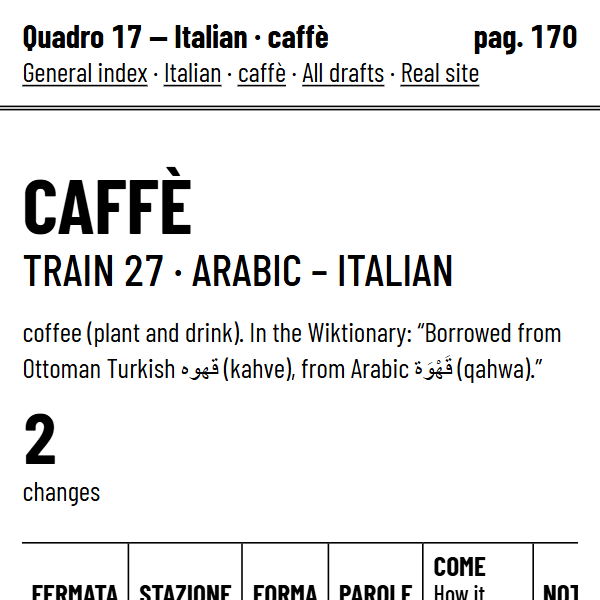
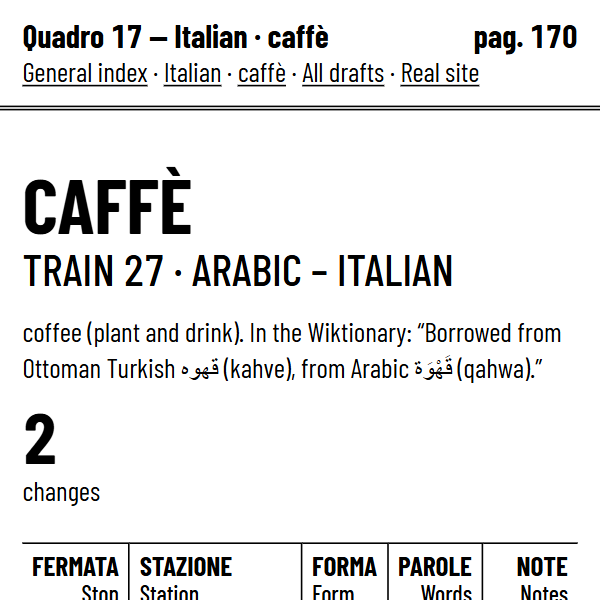
Drafts 4: index page with square photos, JOURNAL section; final pass against the list of prohibitions (no third face in the riso draft, timetable train fits the phone)

Changed region(s): [[0.03, 0.9, 0.99, 1.0]]

diff --git a/bozze4/index.html b/bozze4/index.html
@@ -1,0 +1,68 @@
+<!doctype html>
+<html lang="it">
+<head>
+<meta charset="utf-8">
+<meta name="viewport" content="width=device-width, initial-scale=1">
+<title>lexodus — bozze 4</title>
+<meta name="robots" content="noindex">
+<link rel="icon" href="data:,">
+<style>
+  /* indice delle bozze: Georgia di sistema, una colonna di testo e le foto, nessun colore oltre il blu dei link */
+  body { margin: 0; padding: 32px 16px 48px; background: #fff; color: #000; font: 17px/26px Georgia, "Times New Roman", serif; }
+  main { max-width: 1100px; }
+  h1 { font-size: 30px; line-height: 39px; font-weight: normal; margin: 0 0 13px; }
+  h2 { font-size: 20px; line-height: 26px; margin: 0 0 6px; }
+  p { margin: 0 0 13px; max-width: 42em; }
+  ol { list-style: none; margin: 39px 0 0; padding: 0; }
+  li { padding: 26px 0; border-top: 1px solid #000; }
+  .shots { display: grid; grid-template-columns: repeat(2, minmax(0, 300px)); gap: 8px; max-width: none; }
+  .shots img { display: block; width: 100%; height: auto; border: 1px solid #000; }
+  a, a:visited { color: #00e; }
+</style>
+</head>
+<body>
+<main>
+<h1>lexodus — bozze 4: sei tradizioni grafiche</h1>
+<p>Sei vesti prese da tradizioni grafiche reali, ognuna con le sue regole: home, pagina dell’italiano e scheda di caffè, con i dati veri; funzionano anche sul telefono. Per ognuna, la pagina dell’italiano e la scheda di caffè nelle foto quadrate. Il sito vero non cambia.</p>
+<ol>
+<li>
+<h2>1. Svizzera</h2>
+<p>Stile tipografico internazionale svizzero (Müller-Brockmann, Ruder, anni ’50–’60): griglia a 12 colonne, Helvetica/Arial, testo a bandiera, il nome enorme in basso a sinistra come in un manifesto, un solo rosso; le liste come gli orari delle ferrovie svizzere.</p>
+<p class="shots"><img src="../docs/screenshots/bozze4/svizzera-lingua.png" alt="1. Svizzera: Italiano come manifesto e orario" loading="lazy" width="600" height="600"><img src="../docs/screenshots/bozze4/svizzera-parola.png" alt="1. Svizzera: Caffè: percorso e coincidenze in tabella" loading="lazy" width="600" height="600"></p>
+<p><a href="svizzera/index.html">Home</a> · <a href="svizzera/language.html?code=it">Italiano</a> · <a href="svizzera/word.html?lang=it&amp;w=caff%C3%A8&amp;n=1&amp;from=ota">Caffè</a></p>
+</li>
+<li>
+<h2>2. Brutalista</h2>
+<p>Il primo web (craigslist, la pagina di Berkshire Hathaway, Hacker News): Times di sistema, solo il blu dei link, h1/h2, liste di definizioni, tabelle con bordi di 1 px, la tabella intera in numeri.</p>
+<p class="shots"><img src="../docs/screenshots/bozze4/brutalista-lingua.png" alt="2. Brutalista: Italiano: dl e tabelle" loading="lazy" width="600" height="600"><img src="../docs/screenshots/bozze4/brutalista-parola.png" alt="2. Brutalista: Caffè: albero come elenco annidato" loading="lazy" width="600" height="600"></p>
+<p><a href="brutalista/index.html">Home</a> · <a href="brutalista/language.html?code=it">Italiano</a> · <a href="brutalista/word.html?lang=it&amp;w=caff%C3%A8&amp;n=1&amp;from=ota">Caffè</a></p>
+</li>
+<li>
+<h2>3. Risografia</h2>
+<p>Fanzine stampata in risografia a due tamburi: blu per le parole, rosa fluo per le quantità, fuori registro di 3 px; retino SVG, titoli ritagliati e storti, elenchi battuti a macchina con i puntini, numeri di pagina scritti a mano.</p>
+<p class="shots"><img src="../docs/screenshots/bozze4/risografia-lingua.png" alt="3. Risografia: Doppia pagina dell'italiano" loading="lazy" width="600" height="600"><img src="../docs/screenshots/bozze4/risografia-parola.png" alt="3. Risografia: Caffè: ritagli e albero a macchina" loading="lazy" width="600" height="600"></p>
+<p><a href="risografia/index.html">Home</a> · <a href="risografia/language.html?code=it">Italiano</a> · <a href="risografia/word.html?lang=it&amp;w=caff%C3%A8&amp;n=1&amp;from=ota">Caffè</a></p>
+</li>
+<li>
+<h2>4. Isotype</h2>
+<p>Statistica per pittogrammi di Otto Neurath e Gerd Arntz (Vienna, anni ’20–’30): un segno (un foglio scritto) ripetuto al posto delle barre, il valore del segno dichiarato in legenda, gli inchiostri piatti delle tavole Isotype, Jost come Futura.</p>
+<p class="shots"><img src="../docs/screenshots/bozze4/isotype-lingua.png" alt="4. Isotype: Italiano: 1 segno = 50 parole" loading="lazy" width="600" height="600"><img src="../docs/screenshots/bozze4/isotype-parola.png" alt="4. Isotype: Caffè: luoghi, frecce e una parola per segno" loading="lazy" width="600" height="600"></p>
+<p><a href="isotype/index.html">Home</a> · <a href="isotype/language.html?code=it">Italiano</a> · <a href="isotype/word.html?lang=it&amp;w=caff%C3%A8&amp;n=1&amp;from=ota">Caffè</a></p>
+</li>
+<li>
+<h2>5. Orario</h2>
+<p>L'Orario generale delle Ferrovie italiane e i manifesti di stazione: quadri numerati, tabelle fitte in condensato, arrivi su bianco e partenze sul giallo dei manifesti, numeri di treno al posto dei numeri di parole, note con i segni e la legenda.</p>
+<p class="shots"><img src="../docs/screenshots/bozze4/orario-lingua.png" alt="5. Orario: Quadro 17: arrivi e partenze" loading="lazy" width="600" height="600"><img src="../docs/screenshots/bozze4/orario-parola.png" alt="5. Orario: Caffè come treno con le coincidenze" loading="lazy" width="600" height="600"></p>
+<p><a href="orario/index.html">Home</a> · <a href="orario/language.html?code=it">Italiano</a> · <a href="orario/word.html?lang=it&amp;w=caff%C3%A8&amp;n=1&amp;from=ota">Caffè</a></p>
+</li>
+<li>
+<h2>6. Tufte</h2>
+<p>La monografia scientifica alla maniera di Edward Tufte: colonna di testo e note a margine numerate, sparkline dentro le frasi, tabelle con un filetto sopra e uno sotto, figure numerate, la home come primo capitolo con 33 small multiples.</p>
+<p class="shots"><img src="../docs/screenshots/bozze4/tufte-lingua.png" alt="6. Tufte: Capitolo dell'italiano" loading="lazy" width="600" height="600"><img src="../docs/screenshots/bozze4/tufte-parola.png" alt="6. Tufte: Caffè: note a margine e albero a linee sottili" loading="lazy" width="600" height="600"></p>
+<p><a href="tufte/index.html">Home</a> · <a href="tufte/language.html?code=it">Italiano</a> · <a href="tufte/word.html?lang=it&amp;w=caff%C3%A8&amp;n=1&amp;from=ota">Caffè</a></p>
+</li>
+</ol>
+<p>Le bozze precedenti: <a href="../bozze3/index.html">bozze3/</a> (carta e libri), <a href="../bozze2/index.html">bozze2/</a> (oggetti), <a href="../bozze/index.html">bozze/</a> (tre stili). Il sito vero: <a href="../index.html">andreottiviii.github.io/lexodus</a>.</p>
+</main>
+</body>
+</html>

diff --git a/bozze4/orario/js/pagine.js b/bozze4/orario/js/pagine.js
@@ -127,7 +127,7 @@
           '<p class="intro">' + E(p.significato || "") + ". " + (r.text ? "In the Wiktionary: “" + E(r.text) + "”" : "") + "</p>" +
           '<p class="stamp"><b>' + (stops.length - 1) + "</b>" + (stops.length - 1 === 1 ? "change" : "changes") + "</p>" +
           '<div class="tbl"><table><thead><tr>' + headN("Fermata", "Stop") + head("Stazione", "Station") + head("Forma", "Form") + '<th class="hide-s"><span class="it">Trascr.</span>Transliteration</th>' +
-          headN("Parole", "Words") + head("Come", "How it went on") + '<th class="n"><span class="it">Note</span>Notes</th></tr></thead><tbody>' +
+          headN("Parole", "Words") + '<th class="hide-s"><span class="it">Come</span>How it went on</th>' + '<th class="n"><span class="it">Note</span>Notes</th></tr></thead><tbody>' +
           stops.map(function (s, i) {
             var notes = "";
             if (quadro(L, s.code)) { notes += sym("◆"); used.d = 1; }
@@ -136,7 +136,7 @@
             if (i && pc[i] == null) used.x = 1;
             var script = s.term && !B.isLatinScript(s.term);
             return "<tr" + (s.here ? ' class="me"' : "") + '><td class="n">' + (i + 1) + '</td><td class="st">' + stName(L, s.code, s.name) + '</td><td class="form' + (script ? " ar" : "") + '"><bdi>' + E(s.term) + "</bdi></td>" +
-              '<td class="hide-s">' + E(s.tr && s.tr !== s.term ? s.tr : "") + '</td><td class="n">' + words + "</td><td>" + E(s.how || (s.here ? "terminus" : "")) + '</td><td class="note">' + notes + "</td></tr>";
+              '<td class="hide-s">' + E(s.tr && s.tr !== s.term ? s.tr : "") + '</td><td class="n">' + words + '</td><td class="hide-s">' + E(s.how || (s.here ? "terminus" : "")) + '</td><td class="note">' + notes + "</td></tr>";
           }).join("") + "</tbody></table></div>" +
           '<p class="intro" style="grid-column:1/-1;margin-top:11px">Words: all the words the station took from the one before it, the number this train shares with the others on the same line.</p></section>';
         if (onward.length) {

diff --git a/bozze4/risografia/style.css b/bozze4/risografia/style.css
@@ -111,7 +111,6 @@ b, strong { font-weight: 700; }
 .box { border: 2px solid var(--blue); padding: 11px 13px; margin-bottom: 26px; transform: rotate(0.6deg); }
 pre.tree { font: 400 15px/var(--line) "Courier Prime", "Courier New", monospace; overflow-x: auto; margin-bottom: 26px; }
 pre.tree a { text-decoration: none; font-weight: 700; }
-.ar { font-family: "Courier New", serif; }
 
 .colophon { max-width: 1280px; margin: 0 auto; padding: 26px 32px 52px; border-top: 2px solid var(--blue); }
 .colophon p { max-width: 70ch; }

diff --git a/JOURNAL.md b/JOURNAL.md
@@ -308,3 +308,33 @@ Delle bozze divergenti Davide ha trovato la tavola periodica "la meno peggio" e 
 - Vocabolario: il maiuscoletto è sintetizzato dal browser (Crimson Pro su Google Fonts non ha il maiuscoletto vero).
 - Gazzetta: il trafiletto di caffè è corto e lascia bianco sotto l'articolo; i titoli sono generati dai dati, a volte meccanici.
 - Partitura: nell'albero i 16 figli del francese fanno un fascio di legature fitto; sul telefono la foto mostra soprattutto il titolo, lo spartito comincia più sotto.
+
+## 2026-10-29 — mandato 19: bozze 4, sei tradizioni grafiche che non sappiano di AI (il sito vero non cambia)
+Davide ha trovato tutte le dodici bozze precedenti "di Claude". Qui niente metafore: sei tradizioni grafiche reali, eseguite con le loro regole, con la lista dei divieti e degli obblighi del mandato. Tutto in `bozze4/`, indice in `bozze4/index.html` (italiano, con le foto quadrate), tutte le pagine `noindex`. Foto in `docs/screenshots/bozze4/<nome>-lingua.png`, `-parola.png` (1200×1200, primo quadrato di una finestra larga 1200) e `-telefono.png` (scheda di caffè a 375 px, scalata a 600×600).
+
+### Come sono fatte
+- Ogni bozza ha `index.html`, `language.html`, `word.html`, `style.css` scritto a mano, `js/dati.js` (copia di `bozze3/js/dati.js` con in più `grid()`, `allSides()`, `pairCats()`, `pairCount()`) e `js/pagine.js` con il suo disegno. Dati veri da `../../data/`, stesse impostazioni fisse delle bozze precedenti (prestito + latinismo + calco, latino unito). Niente librerie; nessun `tree.html`: dove la tradizione vuole l'albero (brutalista, risografia, isotype, orario, tufte) sta nella scheda parola.
+- Ogni foglio di stile dichiara in testa la griglia (colonne e ritmo verticale come variabili CSS), il carattere e il colore, e perché.
+- Verifica: Edge senza finestra via Playwright, server locale; per ogni pagina a 1200 e 375 px nessun errore in console, nessuno scorrimento di lato, e un controllo automatico contro i divieti sugli stili calcolati di ogni elemento (angoli arrotondati, ombre, gradienti, sfocature, caratteri vietati, tracking oltre 0,06 em, testo sotto 15 px, caratteri caricati, colori del testo). Tutte e sei passano. Poi rilettura a occhio delle pagine intere.
+
+### Le sei bozze: griglia, caratteri, perché
+- **Svizzera** (stile tipografico internazionale). Griglia 12 colonne, gutter 24, margine 48, linea 24 px; sul telefono 4 colonne. Un carattere: Helvetica dove c'è, altrimenti Arial (di sistema, come chiede la tradizione). Un colore: rosso puro `#e2001a` per il soggetto della pagina (la lingua, la parola; nella tabella l'italiano, centro del progetto). Home = la tabella 33×35 come tavola di manifesto: quadrati neri in cinque grandezze (1–9 … 10.000+), riga e colonna dell'italiano in rosso, "lexodus" enorme in basso a sinistra con il testo a bandiera accanto. Lingua e parola = manifesto con quattro blocchi di testo in alto e il nome enorme in basso a sinistra, poi sezioni numerate con l'etichetta appesa a sinistra e tabelle come gli orari FFS: nessun fondo, un filetto ogni cinque righe, numeri allineati, barre come blocchi neri pieni. La scheda di caffè ha la colonna "Words of the pair" (27 parole prese dall'ottomano).
+- **Brutalista** (primo web: craigslist, Berkshire Hathaway, Hacker News). Il CSS fissa solo la linea (20 px, ogni spazio una linea intera), le quattro colonne dell'elenco delle lingue e le tabelle a 1 px. Times New Roman di sistema; solo il blu dei link (anche visitati). Home = colonne per famiglia alla craigslist e la tabella intera in numeri; lingua = h1, `<dl>` dei fatti, indice, tabelle numerate, `<ol>` delle parole più viaggiate; parola = `<dl>`, percorso in `<ol>`, citazione del Wiktionary, albero come elenchi annidati.
+- **Risografia** (fanzine a due tamburi). Doppie pagine: ogni pagina 3 colonne, gutter 24, linea 26 px (Courier Prime 17 px); sul telefono una pagina sotto l'altra. Archivo Black (grottesca pesante dei titoli ritagliati) e Courier Prime (macchina da scrivere dei master). Due inchiostri e basta: blu medio `#3255a4` per le parole, rosa fluo `#ff48b0` per le quantità; dove si sovrappongono si moltiplicano in viola, il rosa è fuori registro di 3 px. Retino a 45° in SVG (non gradienti), titoli ritagliati (clip-path) e storti di 1,5–2°, crocini di registro nei due colori, elenchi battuti con i puntini di guida, numeri di pagina disegnati a mano in SVG (tratti, non un carattere: un terzo carattere sarebbe stato vietato). Home = copertina con la tabella a retino; lingua = due doppie pagine; parola = ritagli del percorso con frecce a pennarello e albero ASCII (`|--`).
+- **Isotype** (Neurath, Arntz). Colonna delle etichette (220 px) e campo di segni: segno 15 px + 3 px, gruppi di cinque, linea 24 px; sul telefono segni di 12 px, 20 per riga. Jost (una Futura degli anni dell'Isotype). Un solo segno, un foglio scritto, ripetuto; il valore è scritto nella legenda di ogni tavola: 1.000 parole nella tavola delle 33, 50 nella lingua, 1 nella parola. Inchiostri piatti delle tavole: nero prestito, rosso latinismo, blu calco, verde altre vie (solo dove servono). Ogni segno prende il colore della categoria che riempie la maggior parte delle sue parole, così solo l'ultimo di una riga è tagliato (¼, ½, ¾). Nessun numero senza i suoi segni (sotto ¼ di segno c'è scritto "under ¼ sign"). Parola = luoghi uniti da frecce Isotype, poi le 28 parole venute dopo, generazione per generazione.
+- **Orario** (Orario generale FS e manifesti di stazione). Foglio di 12 colonne, gutter 16, linea 22 px; tabelle a tutta misura con filetto grosso sotto le intestazioni, filetto sottile fra le righe, filetti verticali. Barlow Condensed. Un colore: il giallo `#ffd100` dei manifesti delle partenze, solo sul foglio delle partenze. Testatina con "Quadro 17 — Italian" e "pag. 168", intestazioni bilingui come i manifesti (ARRIVI / Arrivals). Home = indice generale dei 33 quadri e prospetto da lingua a lingua. Lingua = Arrivi (dalle origini lontane: provenienza, via con le parole per strada) e Partenze (destinazioni, fermate = parole d'esempio); numero del treno = numero di parole. Note ◆ (una delle 33), † (lingua storica), ✱ (più strade), ‡ (calchi o latinismi) con la legenda in fondo. Parola = treno 27 con le fermate (arabo, ottomano, italiano) e le "parole della coppia" al posto degli orari, poi le coincidenze sul giallo.
+- **Tufte** (monografia scientifica). Pagina di 12 colonne: testo nelle prime 7, note nelle ultime 4, una di aria; figure a tutta pagina sulle 12. Ritmo su un'unità di 7 px: testo 19/28, note e didascalie 15/21. EB Garamond (della famiglia dei caratteri dei libri di Tufte; cifre vecchio stile nel testo, tabellari nelle tabelle, maiuscoletto vero). Un colore spento per i dati: rosso mattone `#a0473a`. Home = capitolo 1 con la figura 1 a tutta pagina: 33 small multiples uguali (quota delle parole prese per famiglia della lingua d'origine, stessa scala, la barra della propria famiglia in nero). Lingua = capitolo 18 con sparkline nelle frasi, tabelle con un filetto sopra e uno sotto, note numerate al margine (copertura, catene delle parole più viaggiate). Parola = prosa con le note, sparkline delle generazioni, figura 1 = albero a linee sottili (sul telefono diventa uno schema rientrato).
+
+### Scelte fatte da solo
+- Isotype: 1 segno = 1.000 parole nella home invece di 50 o 100 (dichiarato in legenda), perché con 50 il francese avrebbe avuto 1.100 segni e le righe non sarebbero state contabili.
+- Orario: le "partenze" sono le parole date, gli "arrivi" quelle prese; gli arrivi vengono dalle origini lontane (`lingua_extra`, le prime 40) perché lì c'è la colonna "via".
+- Risografia: senza nero, il blu fa da inchiostro principale; le scritture non latine cadono sul carattere di sistema (Courier Prime non ha l'arabo).
+
+### Cosa manca / limiti
+- Come nelle bozze precedenti esistono solo home, lingua e parola; i link ad altre pagine portano al sito vero o non ci sono.
+- Svizzera: su Windows è Arial, non Helvetica né Akzidenz (su Google Fonts non c'è un'Akzidenz).
+- Brutalista: la tabella intera della home e quelle della lingua sul telefono si scorrono di lato dentro il loro riquadro.
+- Risografia: fuori registro e retino sono simulati e regolari; manca la grana irregolare della carta e dell'inchiostro vero.
+- Isotype: il segno "foglio scritto" è mio, non un segno di Arntz; le lingue con meno di 125 parole date non hanno segni nella home.
+- Orario: i simboli ◆ ✱ vengono dal carattere di sistema (Barlow non li ha); sul telefono il prospetto e le tabelle più larghe si scorrono di lato dentro il loro riquadro.
+- Tufte: le note stanno all'altezza della fine del paragrafo, non della riga del richiamo; sul telefono finiscono sotto il paragrafo.
